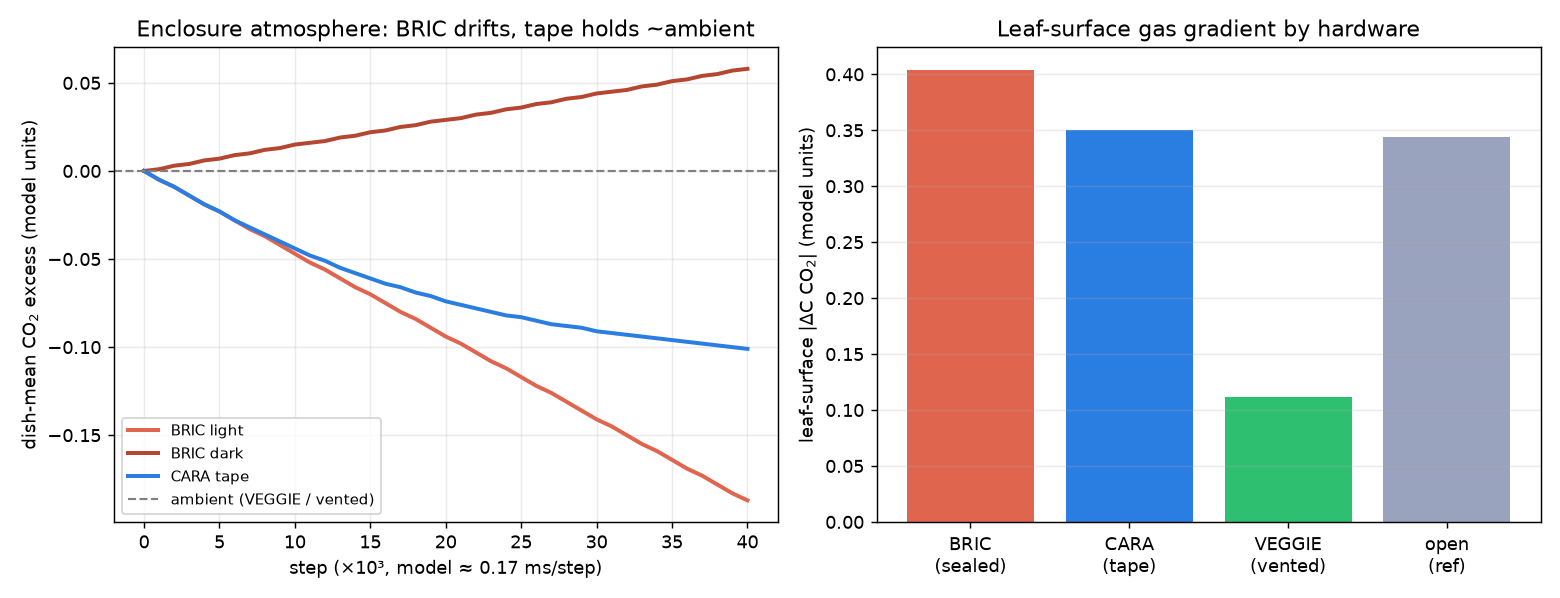
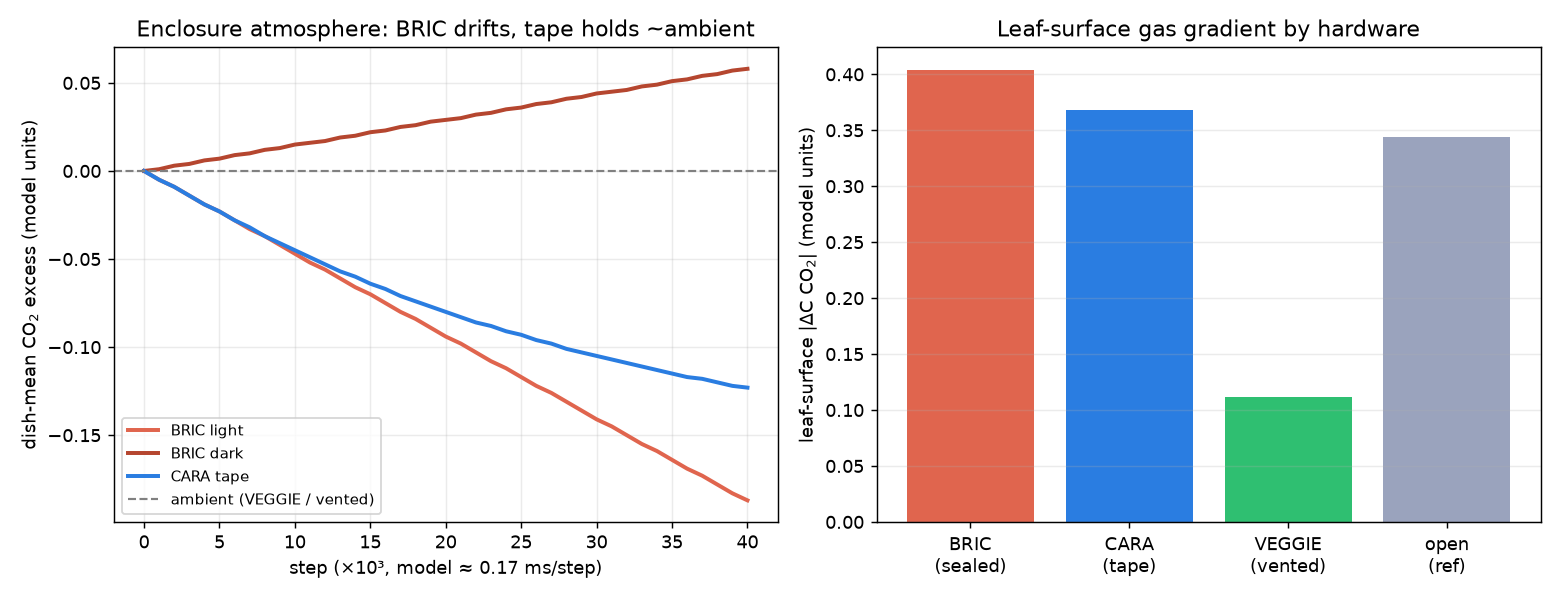
Extend membrane + fan analysis to rosette and canopy scales
Runs the forced-airflow sweep and the BRIC/CARA/VEGGIE enclosure comparison for
all three plant scales (validation/scales.ts). Adds a physics fix: the tape
membrane now vents only the lid+sides, not the base (y=0 = sealed agar/soil) —
correct for a Petri dish and required for the canopy's soil floor. Four new
in-app presets (rosette/canopy BRIC + VEGGIE) -> 23 scenarios.

Headline result (results/F8, F9, T9, T10; DISCUSSION 3.8): the ventilation that
nulls the microgravity penalty scales steeply with planting density -
Earth-equivalent airflow ~2.6 (leaf) / 11 (rosette) / 21 (canopy) cm/s, an ~8x
increase. The canopy is hardest to ventilate (side flow skims the top while the
within-canopy air stays stagnant; its curve flattens and higher speeds hit the
low-Mach limit). Hardware inherits this: BRIC ~ CARA at the leaf surface at every
scale (tape vents the enclosure, not the ug surface layer), and a single VEGGIE
speed (~8 cm/s) that restores a leaf (0.10) barely helps a rosette (0.32) or
canopy (0.31). => denser plantings need disproportionately more gas-exchange
engineering.

Also refreshed F7/T7 with the lid-only membrane. tsc + vite clean; UI verified
(23 scenarios, new presets render, no console errors).

diff --git a/validation/scales.ts b/validation/scales.ts
@@ -1,0 +1,93 @@
+// Extend the membrane (BRIC/CARA) and fan (VEGGIE) analysis to all three scales.
+// For leaf / rosette / canopy: Earth & µg references, a forced-airflow sweep (find
+// the Earth-equivalent ventilation speed), and the three enclosures (sealed / tape /
+// vented). Writes T9 (fan by scale) and T10 (hardware by scale).
+import { writeFileSync } from 'node:fs';
+import {
+  makeLeafScene,
+  leafGeometry,
+  rosetteGeometry,
+  canopyGeometry,
+} from '../src/scenarios/scenarios';
+
+const U_STAR = 166; // cm/s per lattice velocity unit (results/tables/T3)
+const STEPS = 22000;
+const DOM = { nx: 128, ny: 96, renderScale: 0.2 };
+
+const SCALES = [
+  { key: 'leaf', geometry: leafGeometry, sourceScale: 1 },
+  { key: 'rosette', geometry: rosetteGeometry, sourceScale: 1 },
+  { key: 'canopy', geometry: canopyGeometry, sourceScale: 0.3 },
+];
+
+function run(scale: (typeof SCALES)[number], extra: Record<string, unknown>) {
+  const inst = makeLeafScene({
+    ...DOM,
+    id: 'x',
+    label: 'x',
+    geometry: scale.geometry,
+    sourceScale: scale.sourceScale,
+    gRatio: 0,
+    ...extra,
+  })();
+  const f = inst.fluid;
+  for (let s = 0; s < STEPS; s++) {
+    f.collideAndStream();
+    inst.postStream();
+    inst.onAfterStep(s);
+  }
+  const d = inst.diagnostics(STEPS);
+  const pairAbs = (k: string) => Math.abs(parseFloat(d.find((r) => r.label.startsWith(k))!.value.split('/')[0]));
+  const num = (k: string) => {
+    const r = d.find((x) => x.label.startsWith(k));
+    return r ? parseFloat(r.value) : NaN;
+  };
+  return { w: pairAbs('ΔC H₂O'), c: pairAbs('ΔC CO₂'), umax: num('u_max'), dish: num('dish-mean') };
+}
+
+const FAN = [0.01, 0.02, 0.04, 0.07, 0.11, 0.16, 0.22];
+const t9 = ['scale,case,fan_cm_s,dC_H2O,dC_CO2'];
+const t10 = ['scale,hardware,surf_dC_H2O,surf_dC_CO2,dishmean_CO2'];
+const crossings: Record<string, number> = {};
+
+for (const scale of SCALES) {
+  const earth = run(scale, { gRatio: 1 });
+  const ug = run(scale, { gRatio: 0 });
+  t9.push(`${scale.key},earth,,${earth.w.toFixed(4)},${earth.c.toFixed(4)}`);
+  t9.push(`${scale.key},ug_still,0,${ug.w.toFixed(4)},${ug.c.toFixed(4)}`);
+  console.log(`[${scale.key}] Earth ΔC_H2O=${earth.w.toFixed(3)}  µg-still=${ug.w.toFixed(3)}`);
+
+  const series: { U: number; w: number }[] = [];
+  for (const U of FAN) {
+    const r = run(scale, { forcedU: U });
+    series.push({ U, w: r.w });
+    t9.push(`${scale.key},ug_fan,${(U * U_STAR).toFixed(1)},${r.w.toFixed(4)},${r.c.toFixed(4)}`);
+    console.log(`[${scale.key}] fan ${(U * U_STAR).toFixed(1)} cm/s  ΔC_H2O=${r.w.toFixed(3)}`);
+  }
+  // Earth-equivalent crossing (surface gap back to Earth-1g level)
+  let nullU = NaN;
+  for (let i = 1; i < series.length; i++) {
+    if ((series[i - 1].w - earth.w) * (series[i].w - earth.w) <= 0) {
+      const a = series[i - 1];
+      const b = series[i];
+      nullU = a.U + ((earth.w - a.w) / (b.w - a.w)) * (b.U - a.U);
+      break;
+    }
+  }
+  crossings[scale.key] = nullU * U_STAR;
+
+  // Hardware: BRIC (sealed) / CARA (tape) / VEGGIE (vented @ ~8 cm/s)
+  const bric = run(scale, { membraneK: 0 });
+  const cara = run(scale, { membraneK: 0.01 });
+  const veg = run(scale, { forcedU: 0.05 });
+  t10.push(`${scale.key},BRIC,${bric.w.toFixed(4)},${bric.c.toFixed(4)},${bric.dish.toFixed(4)}`);
+  t10.push(`${scale.key},CARA,${cara.w.toFixed(4)},${cara.c.toFixed(4)},${cara.dish.toFixed(4)}`);
+  t10.push(`${scale.key},VEGGIE,${veg.w.toFixed(4)},${veg.c.toFixed(4)},NaN`);
+  console.log(`[${scale.key}] BRIC=${bric.w.toFixed(3)} CARA=${cara.w.toFixed(3)} VEGGIE=${veg.w.toFixed(3)}  Earth-equiv fan=${crossings[scale.key].toFixed(1)} cm/s`);
+}
+
+t9.push('# Earth-equivalent fan speed (cm/s): ' + Object.entries(crossings).map(([k, v]) => `${k}=${v.toFixed(1)}`).join('  '));
+writeFileSync('results/tables/T9_fan_by_scale.csv', t9.join('\n') + '\n');
+writeFileSync('results/tables/T10_hardware_by_scale.csv', t10.join('\n') + '\n');
+console.log('\nEarth-equivalent ventilation by scale (cm/s):', crossings);
+console.log('wrote T9_fan_by_scale.csv, T10_hardware_by_scale.csv');

diff --git a/src/scenarios/scenarios.ts b/src/scenarios/scenarios.ts
@@ -693,9 +693,10 @@ export function makeLeafScene(cfg: LeafSceneCfg): () => ScenarioInstance {
         }
       }
       if (cfg.membraneK > 0) {
-        // Only cells adjacent to the domain border (the taped dish wall) vent —
-        // NOT cells next to the leaf (the leaf is solid too, but it is not a wall).
-        const onBorder = (xx: number, yy: number) => xx === 0 || xx === nx - 1 || yy === 0 || yy === ny - 1;
+        // Only cells adjacent to the taped dish wall vent — the lid and sides, NOT
+        // the base (y=0 is sealed agar/soil) and NOT cells next to the leaf (the
+        // leaf is solid too, but it is not a wall).
+        const onBorder = (xx: number, yy: number) => xx === 0 || xx === nx - 1 || yy === ny - 1;
         for (let x = 1; x < nx - 1; x++) {
           for (let y = 1; y < ny - 1; y++) {
             const c = fluid.index(x, y);
@@ -934,6 +935,30 @@ export const SCENARIOS: ScenarioDef[] = [
     label: 'Hardware · VEGGIE vented',
     description: VEGGIE_DESC,
     build: makeLeafScene({ ...DOM, id: 'hw-veggie', label: 'VEGGIE — vented + light, µg', gRatio: 0, renderScale: 0.12, geometry: leafGeometry, forcedU: 0.05 }),
+  },
+  {
+    id: 'hw-rosette-bric',
+    label: 'Rosette · BRIC sealed',
+    description: BRIC_DESC,
+    build: makeLeafScene({ ...DOM, id: 'hw-rosette-bric', label: 'Rosette — BRIC sealed, µg', gRatio: 0, renderScale: 0.6, geometry: rosetteGeometry, membraneK: 0 }),
+  },
+  {
+    id: 'hw-rosette-veggie',
+    label: 'Rosette · VEGGIE vented',
+    description: VEGGIE_DESC,
+    build: makeLeafScene({ ...DOM, id: 'hw-rosette-veggie', label: 'Rosette — vented + light, µg', gRatio: 0, renderScale: 0.18, geometry: rosetteGeometry, forcedU: 0.05 }),
+  },
+  {
+    id: 'hw-canopy-bric',
+    label: 'Canopy · BRIC sealed',
+    description: BRIC_DESC,
+    build: makeLeafScene({ ...DOM, id: 'hw-canopy-bric', label: 'Canopy — BRIC sealed, µg', gRatio: 0, renderScale: 0.7, geometry: canopyGeometry, sourceScale: 0.3, membraneK: 0 }),
+  },
+  {
+    id: 'hw-canopy-veggie',
+    label: 'Canopy · VEGGIE vented',
+    description: VEGGIE_DESC,
+    build: makeLeafScene({ ...DOM, id: 'hw-canopy-veggie', label: 'Canopy — vented + light, µg', gRatio: 0, renderScale: 0.3, geometry: canopyGeometry, sourceScale: 0.3, forcedU: 0.05 }),
   },
   {
     id: 'cavity',

diff --git a/validation/scales_analysis.py b/validation/scales_analysis.py
@@ -1,0 +1,80 @@
+"""
+Scale-extension figures: forced-airflow and hardware across leaf/rosette/canopy.
+Reads T9_fan_by_scale.csv and T10_hardware_by_scale.csv -> F8, F9.
+"""
+import numpy as np
+import pandas as pd
+import matplotlib
+matplotlib.use("Agg")
+import matplotlib.pyplot as plt
+
+FIG, TAB = "results/figures", "results/tables"
+SCOL = {"leaf": "#2a7de1", "rosette": "#e0654e", "canopy": "#2fbf71"}
+SCALES = ["leaf", "rosette", "canopy"]
+
+fan = pd.read_csv(f"{TAB}/T9_fan_by_scale.csv", comment="#")
+
+def fan_pts(scale):
+    g = fan[fan.scale == scale]
+    ff = g[g.case == "ug_fan"].astype({"fan_cm_s": float, "dC_H2O": float}).sort_values("fan_cm_s")
+    ff = ff.dropna(subset=["dC_H2O"])  # high fan speeds through the canopy can go NaN (low-Mach limit)
+    return ff.fan_cm_s.values, ff.dC_H2O.values
+
+def cross(scale):
+    g = fan[fan.scale == scale]
+    earth = float(g[g.case == "earth"].dC_H2O.iloc[0])
+    xs, ys = fan_pts(scale)
+    for i in range(1, len(xs)):
+        if (ys[i-1]-earth)*(ys[i]-earth) <= 0:
+            return earth, xs[i-1] + (earth-ys[i-1])/(ys[i]-ys[i-1])*(xs[i]-xs[i-1]), False
+    # No clean bracket: extrapolate from the last two valid points if still descending.
+    if len(xs) >= 2 and ys[-1] > earth and ys[-1] < ys[-2]:
+        slope = (ys[-1]-ys[-2])/(xs[-1]-xs[-2])
+        return earth, xs[-1] + (earth-ys[-1])/slope, True
+    return earth, np.nan, True
+
+# ---- F8: fan sweep by scale ----
+fig, (a1, a2) = plt.subplots(1, 2, figsize=(12, 4.6), gridspec_kw={"width_ratios": [2, 1]})
+speeds, approx = {}, {}
+for s in SCALES:
+    xs, ys = fan_pts(s)
+    earth, xc, ex = cross(s)
+    speeds[s], approx[s] = xc, ex
+    a1.plot(xs, ys, "o-", color=SCOL[s], label=f"{s}")
+    a1.axhline(earth, color=SCOL[s], ls="--", lw=1, alpha=0.7)
+    if not np.isnan(xc) and xc <= xs.max() + 1:
+        a1.plot([xc], [earth], "*", color=SCOL[s], ms=15, mec="k", mew=0.5)
+a1.set_xlabel("forced airflow (cm/s)"); a1.set_ylabel("leaf-surface ΔC H$_2$O (mean, model units)")
+a1.set_title("Ventilation nulls the µg penalty at every scale\n(dashed = each scale's Earth-1 g level; ★ = Earth-equivalent speed)")
+a1.grid(alpha=0.25); a1.legend(title="scale")
+
+sv = [speeds[s] for s in SCALES]
+a2.bar(range(3), sv, color=[SCOL[s] for s in SCALES])
+for i, (s, v) in enumerate(zip(SCALES, sv)):
+    a2.text(i, v + 0.3, f"{v:.0f}{'*' if approx[s] else ''}", ha="center", fontsize=10, fontweight="bold")
+a2.set_xticks(range(3)); a2.set_xticklabels(SCALES)
+a2.set_ylabel("Earth-equivalent airflow (cm/s)")
+a2.set_title("Denser canopy needs\nmore ventilation")
+a2.grid(alpha=0.25, axis="y")
+fig.tight_layout(); fig.savefig(f"{FIG}/F8_fan_by_scale.png", dpi=130)
+plt.close(fig)
+
+# ---- F9: hardware by scale ----
+hw = pd.read_csv(f"{TAB}/T10_hardware_by_scale.csv")
+HCOL = {"BRIC": "#e0654e", "CARA": "#2a7de1", "VEGGIE": "#2fbf71"}
+fig, ax = plt.subplots(figsize=(8, 4.6))
+w = 0.26
+for j, h in enumerate(["BRIC", "CARA", "VEGGIE"]):
+    vals = [abs(float(hw[(hw.scale == s) & (hw.hardware == h)].surf_dC_CO2.iloc[0])) for s in SCALES]
+    ax.bar(np.arange(3) + (j - 1) * w, vals, w, label=h, color=HCOL[h])
+ax.set_xticks(range(3)); ax.set_xticklabels(SCALES)
+ax.set_ylabel("leaf-surface |ΔC CO$_2$| (model units)")
+ax.set_title("Enclosure hardware × plant scale (microgravity)")
+ax.grid(alpha=0.25, axis="y"); ax.legend(title="hardware")
+fig.tight_layout(); fig.savefig(f"{FIG}/F9_hardware_by_scale.png", dpi=130)
+plt.close(fig)
+
+print("Earth-equivalent ventilation (cm/s):", {s: round(speeds[s], 1) for s in SCALES})
+print("\nHardware surface |ΔC CO2| by scale:")
+print(hw.to_string(index=False))
+print("F8_fan_by_scale.png, F9_hardware_by_scale.png")

diff --git a/results/DISCUSSION.md b/results/DISCUSSION.md
@@ -25,9 +25,9 @@ textbook benchmarks **and** anchored to measured *Arabidopsis* gas-exchange rate
 3. anchored on the measured net assimilation flux (3.85 µmol CO₂ m⁻² s⁻¹), the model predicts a
    boundary-layer CO₂ drawdown of **≈ 4 ppm (isolated leaf, Earth) rising to ≈ 13 ppm (rosette bulk,
    microgravity), with trapped crown pockets reaching ≈ 25 ppm** (`T5`);
-4. the microgravity penalty is **fully reversible by forced ventilation** — a fan of only **≈ 2.8 cm s⁻¹**
-   restores Earth-equivalent surface gradients for an isolated leaf (`T6`, `F6`), quantifying the design
-   target for spaceflight growth hardware;
+4. the microgravity penalty is **fully reversible by forced ventilation**, but the required airflow **scales
+   steeply with planting density** — **≈ 2.6 / 11 / 21 cm s⁻¹** to restore Earth-equivalent surface gradients
+   for a **leaf / rosette / canopy** (`T6`, `F6`, `F8`) — so a single fan speed cannot serve all densities;
 5. the three ISS plant-growth systems map onto three dish boundary conditions (`§3.7`, `F7`, `T8`):
    **BRIC** (sealed) suffers both runaway enclosure drift — CO₂ fixed in **~7 min** in light, O₂ hypoxia
    in **~6.5 days** in the dark — and the steepest surface gradient; **CARA** (micropore tape) vents the
@@ -162,6 +162,32 @@ short-duration fixation) system.
 The progression BRIC → CARA → VEGGIE is thus a ladder of increasing gas-exchange control: sealed (both
 problems) → vented seal (enclosure fixed, surface not) → actively ventilated (both fixed). The model
 makes each rung quantitative.
+
+### 3.8 Ventilation and enclosure requirements scale with planting density
+
+Extending the fan sweep (§3.6) and the hardware comparison (§3.7) to all three plant scales exposes a
+result with direct hardware consequences (`F8`, `F9`, `T9`, `T10`): **the ventilation needed to null the
+microgravity penalty rises steeply with planting density.** The Earth-equivalent airflow is
+**≈ 2.6 cm s⁻¹ for an isolated leaf, ≈ 11 cm s⁻¹ for a rosette, and ≈ 21 cm s⁻¹ for a microgreen canopy**
+(`F8`) — an ~8× increase. The canopy is the hardest to ventilate: side airflow skims the top of the stand
+while the within-canopy air stays comparatively stagnant, so its ΔC-vs-speed curve flattens and only
+approaches the Earth level near the solver's low-Mach limit (higher speeds went numerically unstable — a
+hint that a real dense canopy needs vigorous, likely turbulent, through-canopy flow, not laminar over-flow).
+
+The hardware comparison inherits this scale dependence (`F9`, `T10`). Across all three scales, **BRIC and
+CARA give nearly the same steep leaf-surface gradient** — the tape vents the *enclosure* but not the *µg
+surface layer* — while **a single VEGGIE fan speed (~8 cm s⁻¹) that restores a leaf (ΔC 0.10) barely helps
+a rosette (0.32) or canopy (0.31)**, because 8 cm s⁻¹ is well below their 11 and 21 cm s⁻¹ requirements.
+The enclosure-drift side worsens too: the sealed (BRIC) rosette depletes its dish CO₂ ~2.5× faster than a
+single leaf, and even the taped (CARA) rosette carries a larger residual dish offset (`T10`,
+`dishmean_CO2`). **Denser plantings therefore demand disproportionately more gas-exchange engineering** —
+a fixed ventilation setting tuned on sparse plants will under-serve a canopy, and a permeable seal that
+keeps a single plate near-ambient will not, on its own, relieve the surface boundary layer of a dense
+stand in microgravity.
+
+---
+
+## 4. Discussion
 
 **Interpretation.** The results give a mechanistic, quantitative account of a long-suspected spaceflight
 stress: without buoyancy-driven convection, plant organs sit in a thickened, poorly-ventilated boundary

diff --git a/results/README.md b/results/README.md
@@ -14,6 +14,8 @@ gravity × canopy-scale predictions of surface O₂/CO₂/H₂O gradients. Full 
 | `F5_chamber_validation.png` | Left: sealed-chamber mass conservation (err 2×10⁻⁵). Right: sustained near-leaf vs bulk gap (boundary layer at chamber scale). |
 | `F6_forced_airflow.png` | Forced ventilation in µg: surface gap ΔC vs fan speed, with Earth-1 g and µg-no-fan reference lines and the ≈ 2.8 cm/s Earth-equivalent point. |
 | `F7_hardware_compare.png` | Spaceflight hardware (BRIC/CARA/VEGGIE) as dish boundary conditions: enclosure CO₂ drift vs time (left) and leaf-surface gradient by hardware (right). |
+| `F8_fan_by_scale.png` | Earth-equivalent ventilation vs plant scale: fan-sweep curves for leaf/rosette/canopy (left) and required airflow ≈ 3/11/21 cm/s (right). |
+| `F9_hardware_by_scale.png` | BRIC/CARA/VEGGIE leaf-surface gradient across leaf/rosette/canopy — the enclosure penalty widens with density. |
 
 ## Tables (`tables/`)
 | File | Content |
@@ -26,6 +28,8 @@ gravity × canopy-scale predictions of surface O₂/CO₂/H₂O gradients. Full 
 | `T6_forced_airflow.csv` | Forced-ventilation sweep (µg leaf): ΔC vs fan speed, with the Earth-equivalent speed (≈ 2.8 cm/s). |
 | `T7_hardware_timeseries.csv` | BRIC/CARA/VEGGIE model time series: dish-mean CO₂ excess + leaf-surface gap vs step. |
 | `T8_enclosure_timescales.csv` | Analytic sealed-dish (BRIC) atmosphere timescales: CO₂ depletion (min), CO₂ stress (h), O₂ hypoxia (days). |
+| `T9_fan_by_scale.csv` | Forced-airflow sweep for leaf/rosette/canopy + Earth-equivalent speed per scale (≈ 2.6 / 11 / 21 cm/s). |
+| `T10_hardware_by_scale.csv` | BRIC/CARA/VEGGIE surface gradient + dish-mean CO₂ across the three scales. |
 
 ## Field grids (`fields/`)
 `<scenario>_h2o.csv` — H₂O-excess concentration grids (128×96, solid cells = NaN) for `leaf-earth`,
@@ -41,6 +45,8 @@ gravity × canopy-scale predictions of surface O₂/CO₂/H₂O gradients. Full 
   (single leaf) — an order of magnitude below flight-hardware fan speeds (VEGGIE/APH, 0.1–1 m/s).
 - **Hardware:** BRIC (sealed) → CO₂ fixed in ~7 min (light) / O₂ hypoxia in ~6.5 days (dark) + steepest
   surface gradient; CARA (tape) vents the enclosure but not the µg surface layer; VEGGIE (airflow) fixes both.
+- **Scale-dependent:** the ventilation to null the µg penalty rises **≈ 2.6 → 11 → 21 cm/s** for
+  leaf → rosette → canopy; a single fan speed (or a permeable seal) that suffices for a leaf under-serves a canopy.
 
 ## Reproduce
 ```bash
@@ -57,10 +63,14 @@ node validation/fan_sweep.mjs
 # 2c) spaceflight-hardware comparison (BRIC/CARA/VEGGIE) -> T7
 npx esbuild validation/hardware_sim.ts --bundle --format=esm --platform=node --outfile=validation/hardware_sim.mjs
 node validation/hardware_sim.mjs
+# 2d) fan + hardware across leaf/rosette/canopy -> T9, T10  (~30 min)
+npx esbuild validation/scales.ts --bundle --format=esm --platform=node --outfile=validation/scales.mjs
+node validation/scales.mjs
 # 3) data analysis + figures (needs Python: pandas, numpy, matplotlib, openpyxl)
 python validation/analyze_data.py      # Vernier + biomass -> T1, F1, F2
 python validation/analyze_model.py     # calibration, F3-F6, T3, T5
 python validation/hardware_analysis.py # BRIC/CARA/VEGGIE -> F7, T8
+python validation/scales_analysis.py   # fan + hardware by scale -> F8, F9
 ```
 Raw source data (`validation/raw/`, incl. the third-party Chew/Millar workbook) is referenced by
 provenance and not committed; place the CSV/xlsx files there to re-run step 3.

diff --git a/README.md b/README.md
@@ -122,6 +122,7 @@ Run the interactive bench with `npm install && npm run dev` → pick a scenario,
 - 🟡 Gravity sweep — 8 selectable presets + reproducible headless sweep done; automated in‑app comparative dashboard still to build
 - ✅ **Forced‑airflow (fan) scenarios** — µg leaf + ventilation; **≈2.8 cm/s nulls the microgravity penalty** (`results/T6`, `F6`). Three in‑app fan presets (3/8/17 cm/s).
 - ✅ **Spaceflight‑hardware scenarios** — BRIC (sealed) / CARA (micropore tape) / VEGGIE (vented) as dish boundary conditions, ±light (`results/F7`, `T7`, `T8`, `DISCUSSION.md §3.7`). Added a semi‑permeable membrane BC. BRIC: CO₂ fixed in ~7 min / O₂ hypoxia ~6.5 days.
+- ✅ **Membrane + fan across all three scales** — Earth‑equivalent ventilation **≈2.6 / 11 / 21 cm/s** (leaf/rosette/canopy); BRIC≈CARA at the surface, one VEGGIE speed under‑serves denser stands (`results/F8`, `F9`, `T9`, `T10`, `§3.8`). 4 new in‑app presets → 23 scenarios.
 
 #### 5a. First science result — three scales × gravity
 All three plant scales share one physics: the surface is a stomatal source/sink (CO₂ uptake, O₂ + H₂O
